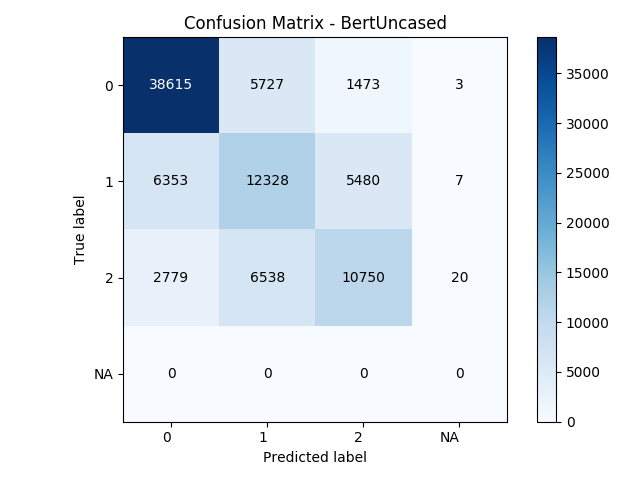
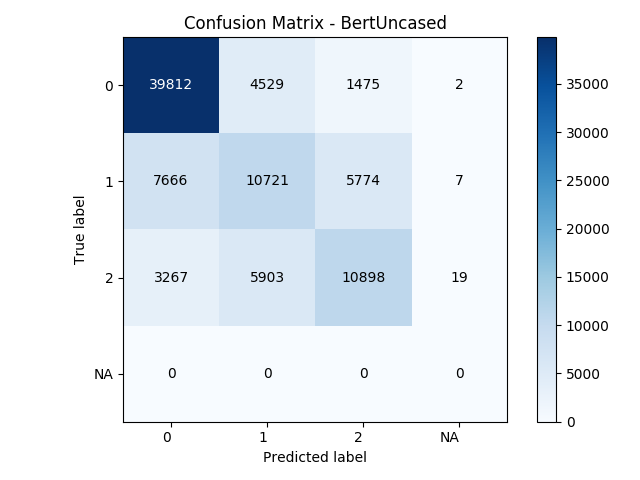
updated table

diff --git a/README.md b/README.md
@@ -21,7 +21,7 @@ For the **BERT** model run training by executing:
 python3 main.py \
     --model BertUncased \
     --batch_size 16 \
-    --epochs 5 \
+    --epochs 1 \
     --save_path results.txt \
     --log_every 50 \
     --learning_rate 0.00005 \
@@ -87,30 +87,17 @@ Atlas 2 2
 
 ## Results
 
-**Results (excluding NA tag - OLD WAY!!!)**
-
-| Model             | accuracy    |precision   |  recall     |f1-score    |
-| ---               | ---         | ---        | ---         | ---        |
-| BERT-base cased   |  **0.6792** |  0.6754    |  **0.6792** | **0.6758** |
-| BERT-base uncased |  0.6758     | **0.6854** |  0.6758     | 0.6756     |
-| BiLSTM (3 layers) |  0.6472     |  0.6388    |  0.6472     | 0.6424     |
-| LSTM (1 layers)   |  0.6376     |  0.6230    |  0.6376     | 0.6270     |
-| Minitagger (SVM)  |  0.6455     |  0.6402    |  0.6455     | 0.6426     |
-| Majority per word |  0.6180     |  0.6205    |  0.6205     | 0.6205     |
-| Majority class    |  0.5087     |  0.2588    |  0.5087     | 0.3430     |
-
 **Results (excluding NA tag - NEW)**
 
 | Model             | accuracy    |precision   |  recall     |f1-score    |
 | ---               | ---         | ---        | ---         | ---        |
+| BERT-base uncased | **0.6849**  | **0.6813** | **0.6849**  | **0.6824** |
 | BERT-base cased   |  0.6849     |  0.6712    |  0.6849     | 0.6756     |
-| BERT-base uncased |  0.6849     |  0.6813    |  0.6849     | 0.6824     |
-| BiLSTM (3 layers) |  0.     |  0.    |  0.     | 0.     |
-| LSTM (1 layers)   |  0.     |  0.    |  0.     | 0.     |
+| BiLSTM (3 layers) |  0.6648     |  0.6577    |  0.6648     | 0.6608     |
+| LSTM (1 layers)   |  0.6460     |  0.6380    |  0.6460     | 0.6414     |
 | Minitagger (SVM)  |  0.6455     |  0.6402    |  0.6455     | 0.6426     |
-| Majority per word |  0.     |  0.    |  0.     | 0.     |
+| Majority per word |  0.6180     |  0.6205    |  0.6205     | 0.6205     |
 | Majority class    |  0.5087     |  0.2588    |  0.5087     | 0.3430     |
-
 
 
 
@@ -120,7 +107,9 @@ Sample analyses (to be reproduced for the paper)
 
 ![Bert-uncased](images/confusion_matrix-BertUncased.png)
 
-![Bert-uncased](images/confusion_matrix-BertCased.png)
+![Bert-cased](images/confusion_matrix-BertCased.png)
+
+![BiLSTM](images/confusion_matrix-BiLSTM.png)
 
 ![WordMajority](images/confusion_matrix-WordMajority.png)
 
